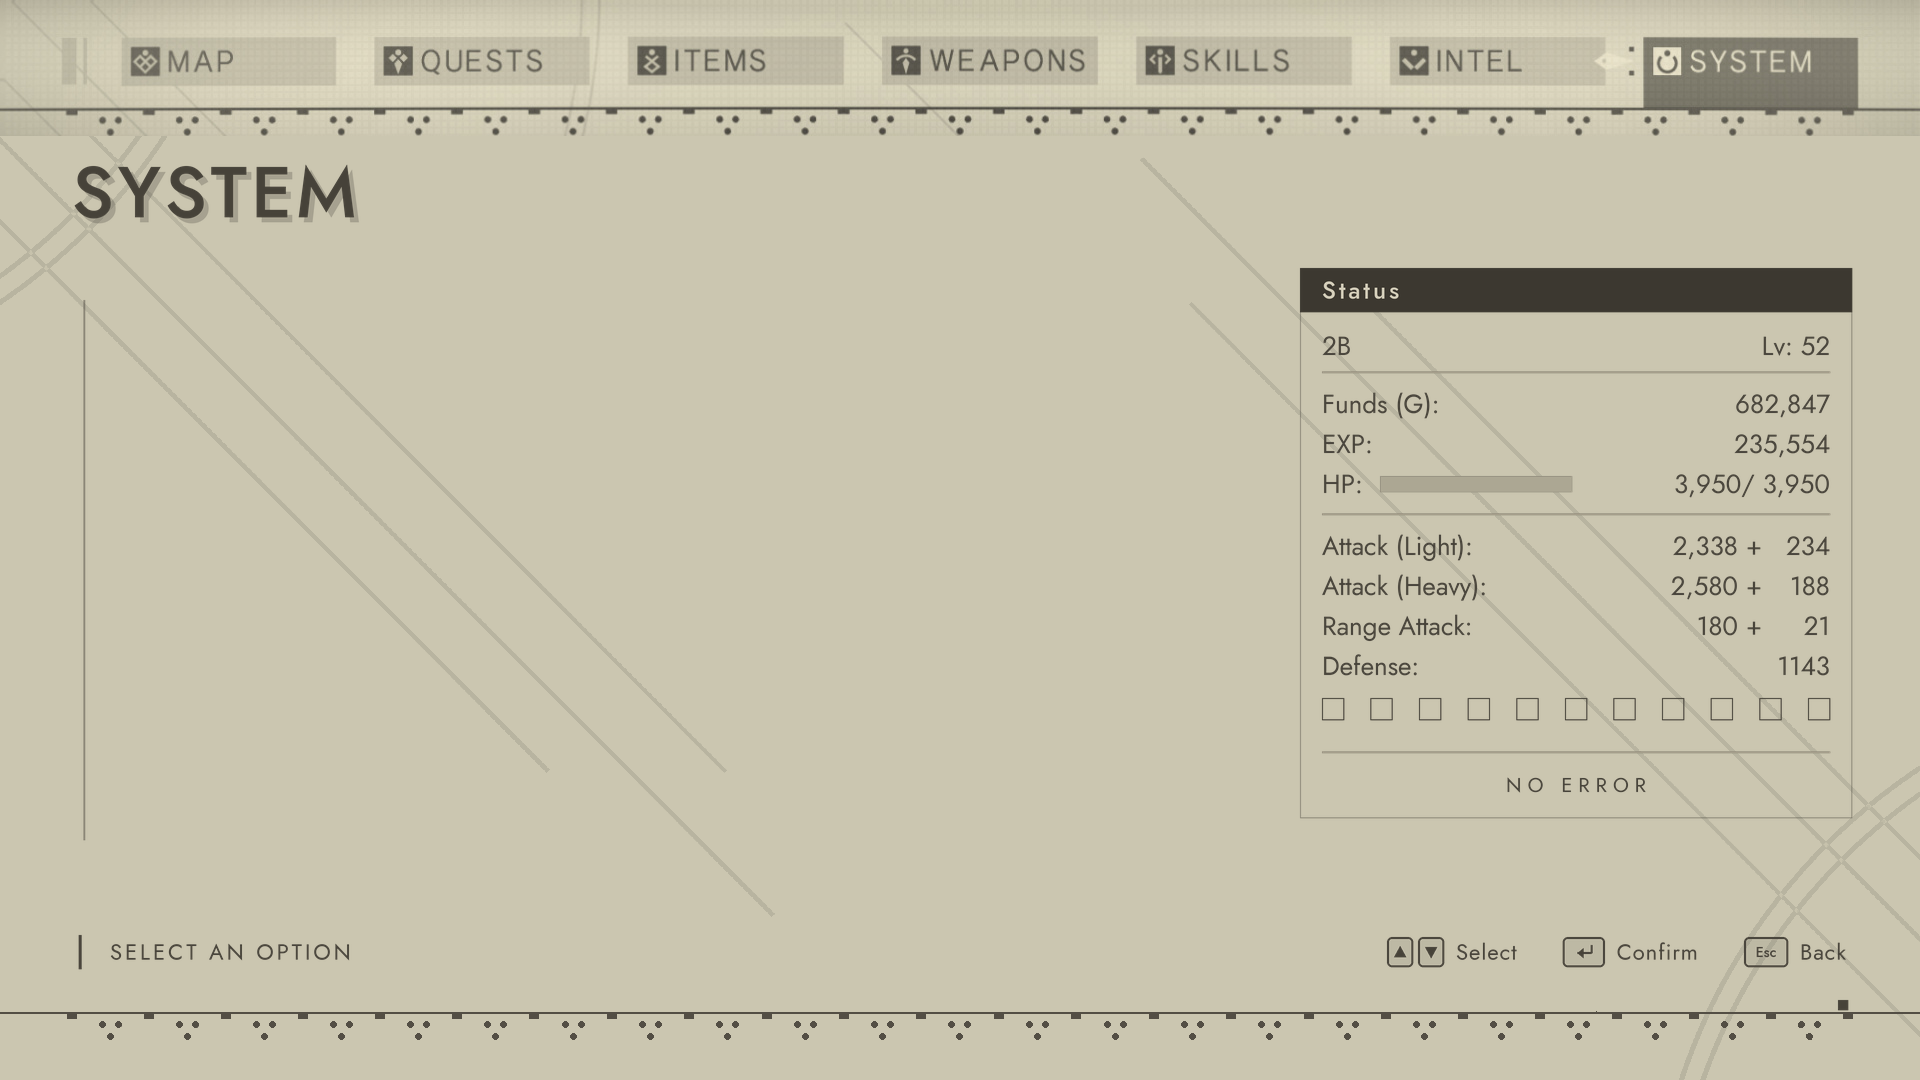
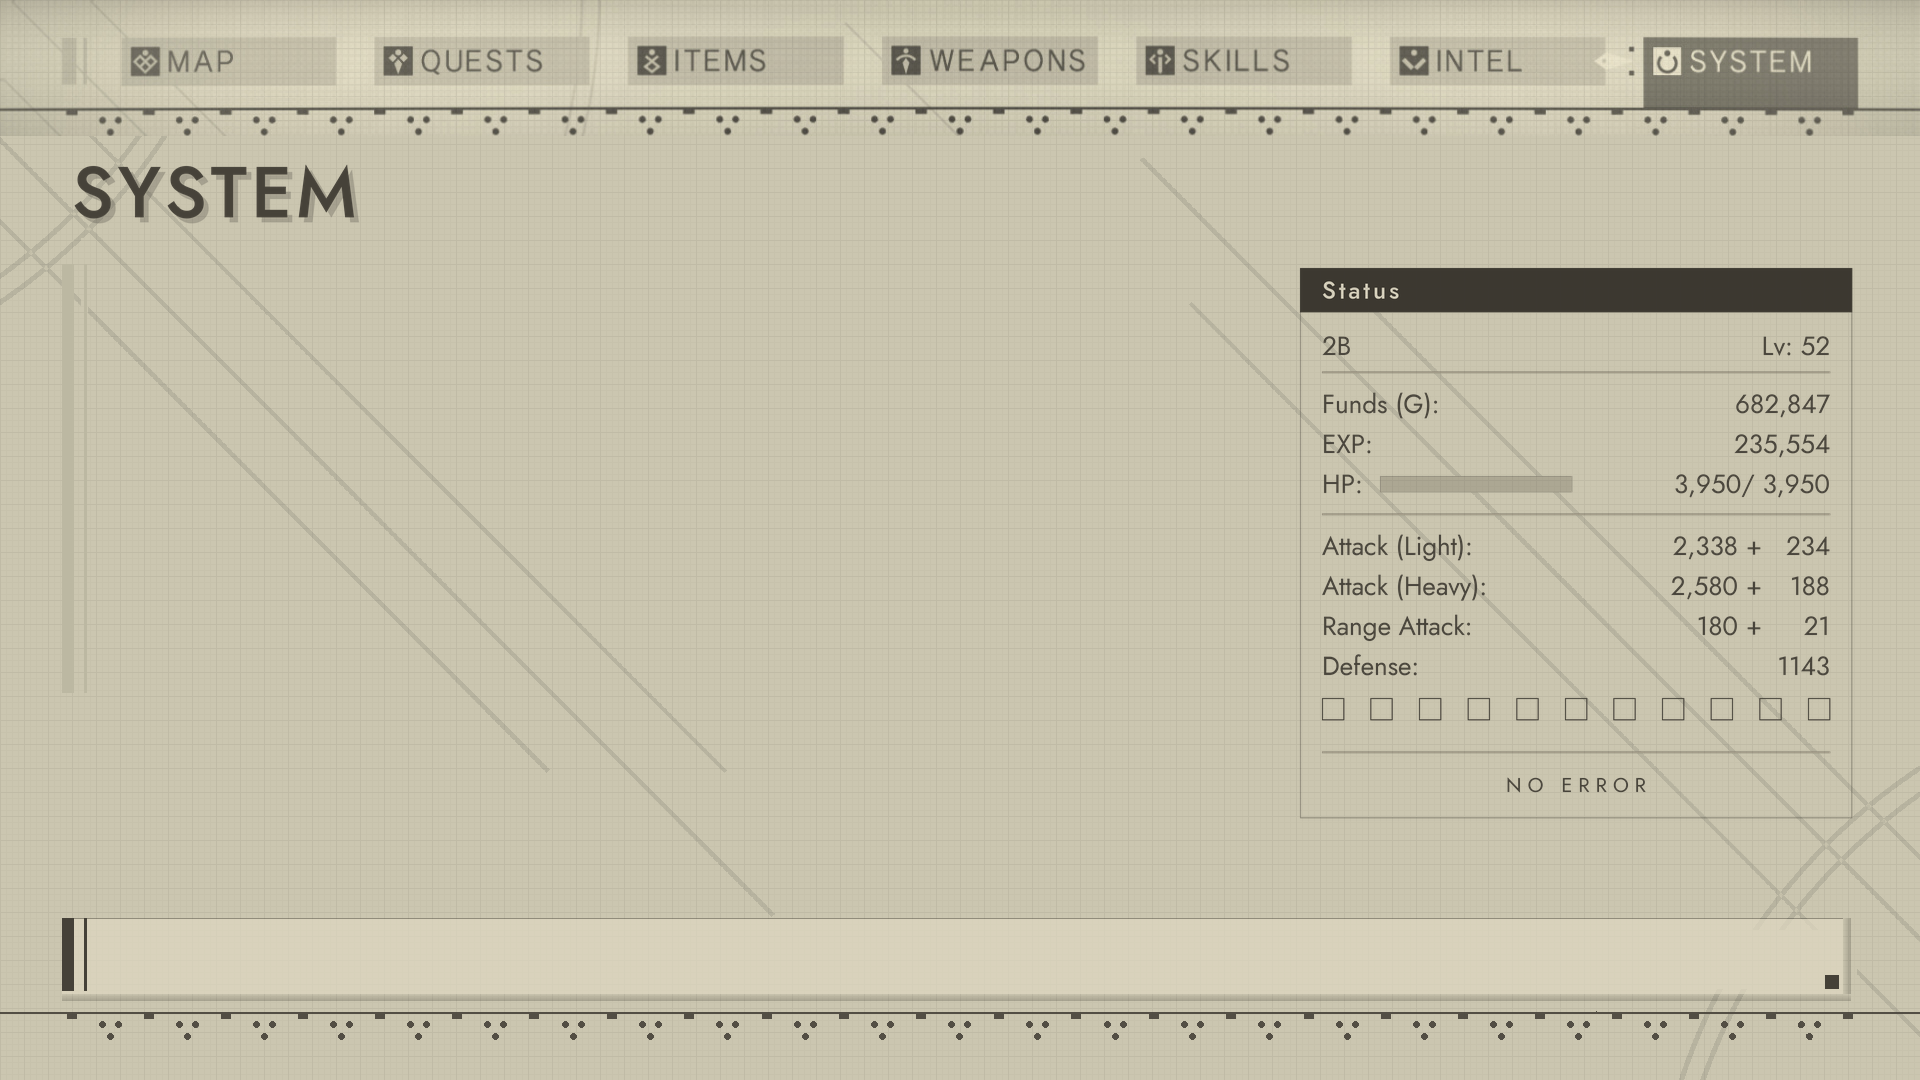
Improve appearance of powermenu

diff --git a/quickshell/.config/quickshell/powermenu/shell.qml b/quickshell/.config/quickshell/powermenu/shell.qml
@@ -20,21 +20,21 @@ ShellRoot {
 
         color: "transparent"   // Background using image, window remain transparent
 
-        // ---- Options ----
+        // ---- Options (desc drives the footer message; edit freely) ----
         property var items: [
-            { icon: "\uf023", label: "Lock",      cmd: "/home/koios/.local/share/quickshell-lockscreen/lock.sh" },
-            { icon: "\uf2f5", label: "Logout",    cmd: "hyprctl dispatch 'hl.dsp.exit()'" },
-            { icon: "\uf186", label: "Suspend",   cmd: "systemctl suspend" },
-            { icon: "\uf2dc", label: "Hibernate", cmd: "systemctl hibernate" },
-            { icon: "\uf011", label: "Shutdown",  cmd: "systemctl poweroff" },
-            { icon: "\uf021", label: "Reboot",    cmd: "systemctl reboot" }
+            { icon: "\uf023", label: "Lock",      desc: "Lock the session",            cmd: "/home/koios/.local/share/quickshell-lockscreen/lock.sh" },
+            { icon: "\uf2f5", label: "Logout",    desc: "End the session and log out",  cmd: "hyprctl dispatch 'hl.dsp.exit()'" },
+            { icon: "\uf186", label: "Suspend",   desc: "Sleep, keeping state in RAM",  cmd: "systemctl suspend" },
+            { icon: "\uf2dc", label: "Hibernate", desc: "Save state to disk and stop",  cmd: "systemctl hibernate" },
+            { icon: "\uf011", label: "Shutdown",  desc: "Power off the machine",        cmd: "systemctl poweroff" },
+            { icon: "\uf021", label: "Reboot",    desc: "Restart the machine",          cmd: "systemctl reboot" }
         ]
         property int sel: 0
 
         // ---- Run single command ----
-	function runItem(i) {
-	    console.log("runItem fired:", i, root.items[i].cmd);
-	    Quickshell.execDetached(["sh", "-c", root.items[i].cmd]);
+        function runItem(i) {
+            console.log("runItem fired:", i, root.items[i].cmd);
+            Quickshell.execDetached(["sh", "-c", root.items[i].cmd]);
             Qt.quit();
         }
 
@@ -65,11 +65,13 @@ ShellRoot {
 
             // ---- Buttom row ----
             Column {
+                id: col
                 x: 120
                 y: 272
                 spacing: 20
 
                 Repeater {
+                    id: rep
                     model: root.items
                     delegate: Rectangle {
                         id: row
@@ -78,12 +80,22 @@ ShellRoot {
 
                         width: 510
                         height: 52
-                        // Color when selected / not selected
-                        color: root.sel === index
-                               ? "#454138"
-                               : Qt.rgba(216/255, 209/255, 188/255, 0.45)
-                        border.width: root.sel === index ? 3 : 0
-                        border.color: "#c2bba4"
+                        // unselected buttons have an opaque fill (covers the grid like
+                        // the game, so no wash); selected turns dark + gets focus lines
+                        color: root.sel === index ? "#454138" : "#aeaa95"
+
+                        // focus lines: thin near-black rules above & below the selected
+                        // button, held ~6px off it (they overflow into the row spacing)
+                        Rectangle {
+                            visible: root.sel === row.index
+                            width: parent.width; height: 2; color: "#26241f"
+                            anchors.bottom: parent.top; anchors.bottomMargin: 6
+                        }
+                        Rectangle {
+                            visible: root.sel === row.index
+                            width: parent.width; height: 2; color: "#26241f"
+                            anchors.top: parent.bottom; anchors.topMargin: 6
+                        }
 
                         MouseArea {
                             anchors.fill: parent
@@ -100,23 +112,81 @@ ShellRoot {
 
                             Text {
                                 text: row.modelData.icon
-				font.family: "Symbols Nerd Font"
+                                font.family: "Symbols Nerd Font"
                                 font.pixelSize: 24
-				width: 30
-				horizontalAlignment: Text.AlignHCenter
+                                width: 30
+                                horizontalAlignment: Text.AlignHCenter
                                 color: root.sel === row.index ? "#d8d1bc" : "#454138"
                                 anchors.verticalCenter: parent.verticalCenter
                             }
                             Text {
-				text: row.modelData.label
-				font.family: "FOT-Rodin Pro"
-				font.weight: Font.Medium
+                                text: row.modelData.label
+                                font.family: "FOT-Rodin Pro"
+                                font.weight: Font.Medium
                                 font.pixelSize: 26
                                 color: root.sel === row.index ? "#d8d1bc" : "#454138"
                                 anchors.verticalCenter: parent.verticalCenter
                             }
                         }
                     }
+                }
+            }
+
+            // ---- kite movement axis is baked into YoRHa_bg1.png (thick x62-73,
+            //      thin x84-86), aligned to the two nav bars left of MAP. ----
+
+            // ---- Sliding NieR kite, pointing at the selected option.
+            //      gap=16 puts the ring (~x79) in the baked rail gap (73..84). ----
+            SelectionKite {
+                target: rep.count > 0 ? rep.itemAt(root.sel) : null
+                gap: 16
+            }
+
+            // ---- Footer overlay (the bar itself is baked into YoRHa_bg1.png).
+            //      This transparent layer just holds the dynamic message (left)
+            //      and the key hints (right), sitting above the baked bar. ----
+            Rectangle {
+                id: footer
+                x: 0; width: parent.width
+                y: 918; height: 82
+                color: "transparent"
+
+                // reusable hint = bordered keycap + label
+                component Hint: Item {
+                    property string keys: ""
+                    property string label: ""
+                    implicitHeight: 24
+                    implicitWidth: kc.width + lbl.implicitWidth + 8
+                    Rectangle {
+                        id: kc; height: 22; radius: 3
+                        width: Math.max(34, kt.implicitWidth + 14)
+                        color: "transparent"; border.color: "#454138"; border.width: 1
+                        anchors.left: parent.left; anchors.verticalCenter: parent.verticalCenter
+                        Text { id: kt; anchors.centerIn: parent; text: keys
+                               font.family: "FOT-Rodin Pro"; font.pixelSize: 13; color: "#454138" }
+                    }
+                    Text {
+                        id: lbl; anchors.left: kc.right; anchors.leftMargin: 8
+                        anchors.verticalCenter: parent.verticalCenter
+                        text: label; font.family: "FOT-Rodin Pro"; font.pixelSize: 18; color: "#454138"
+                    }
+                }
+
+                // left: dynamic per-option message (edit items[].desc to change)
+                Text {
+                    anchors.left: parent.left; anchors.leftMargin: 110
+                    anchors.verticalCenter: parent.verticalCenter
+                    text: root.items[root.sel].desc || ""
+                    font.family: "FOT-Rodin Pro"; font.pixelSize: 22; color: "#454138"
+                }
+                // right: key hints
+                Row {
+                    anchors.right: parent.right; anchors.rightMargin: 120
+                    anchors.verticalCenter: parent.verticalCenter
+                    spacing: 30
+                    Hint { keys: "\u2191\u2193"; label: "Select" }
+                    Hint { keys: "\u21b5";       label: "Confirm" }
+                    Hint { keys: "Esc";          label: "Back" }
                 }
             }
         }

diff --git a/quickshell/.config/quickshell/powermenu/SelectionKite.qml b/quickshell/.config/quickshell/powermenu/SelectionKite.qml
@@ -1,0 +1,36 @@
+// =============================================================================
+//  SelectionKite.qml  —  the sliding NieR cursor, reusable across menus.
+//
+//  Parent it to the container that holds your option rows (it needs room to the
+//  LEFT of the rows to sit in), and bind `target` to the currently-selected row
+//  Item. It slides to track that row's vertical centre and parks its point just
+//  left of the row's leading edge.
+//
+//  kite.svg must sit next to this file.
+//
+//  Wiring examples (inside the options container):
+//    ListView:            SelectionKite { target: optionList.currentItem }
+//    Repeater + index:    SelectionKite { target: optionRepeater.itemAt(root.selectedIndex) }
+// =============================================================================
+
+import QtQuick
+
+Image {
+    id: kite
+
+    property Item target: null      // the currently-selected row Item
+    property real gap: 8            // space between the kite's point and the row
+
+    source: Qt.resolvedUrl("kite.svg")
+    width: 34; height: 18
+    smooth: true
+    z: 10
+    visible: target !== null
+
+    // track the target's mapped rect within this kite's parent
+    x: target ? target.mapToItem(parent, 0, 0).x - width - gap : x
+    y: target ? target.mapToItem(parent, 0, 0).y + target.height / 2 - height / 2 : y
+
+    Behavior on x { NumberAnimation { duration: 130; easing.type: Easing.OutCubic } }
+    Behavior on y { NumberAnimation { duration: 130; easing.type: Easing.OutCubic } }
+}